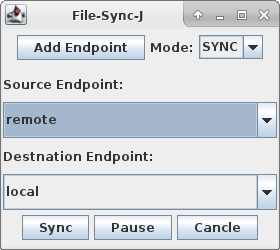
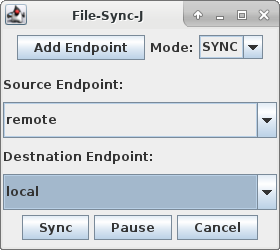
fuck the misspellings

Changed region(s): [[0.0, 0.392, 0.9143, 0.56], [0.0, 0.7, 0.9143, 0.84], [0.8, 0.896, 0.8571, 0.952]]

diff --git a/src/main/java/ink/codflow/sync/ui/MainInterface.java b/src/main/java/ink/codflow/sync/ui/MainInterface.java
@@ -155,7 +155,7 @@ public class MainInterface {
 			}
 		});
 
-		JButton cancleBtn = new JButton("Cancle");
+		JButton cancleBtn = new JButton("Cancel");
 		cancleBtn.addActionListener(new ActionListener() { // NOSONAR no lambda for lower java version
 
 			@Override

diff --git a/src/main/java/ink/codflow/sync/ui/EndpointEditor.java b/src/main/java/ink/codflow/sync/ui/EndpointEditor.java
@@ -183,7 +183,7 @@ public class EndpointEditor {
 			}
 		});
 
-		JButton cancleBtn = new JButton("Cancle");
+		JButton cancleBtn = new JButton("Cancel");
 		cancleBtn.addActionListener(new ActionListener() {
 
 			@Override

diff --git a/README.MD b/README.MD
@@ -40,6 +40,6 @@ Start the program in java environment.
 
     There are two modes supported now:
     
-    SYNC: keep keep destination endpoint as same as source enpoint
+    SYNC: keep destination endpoint as same as source enpoint
 
     INC: fetch new file from source to destination but not delete files which removed
